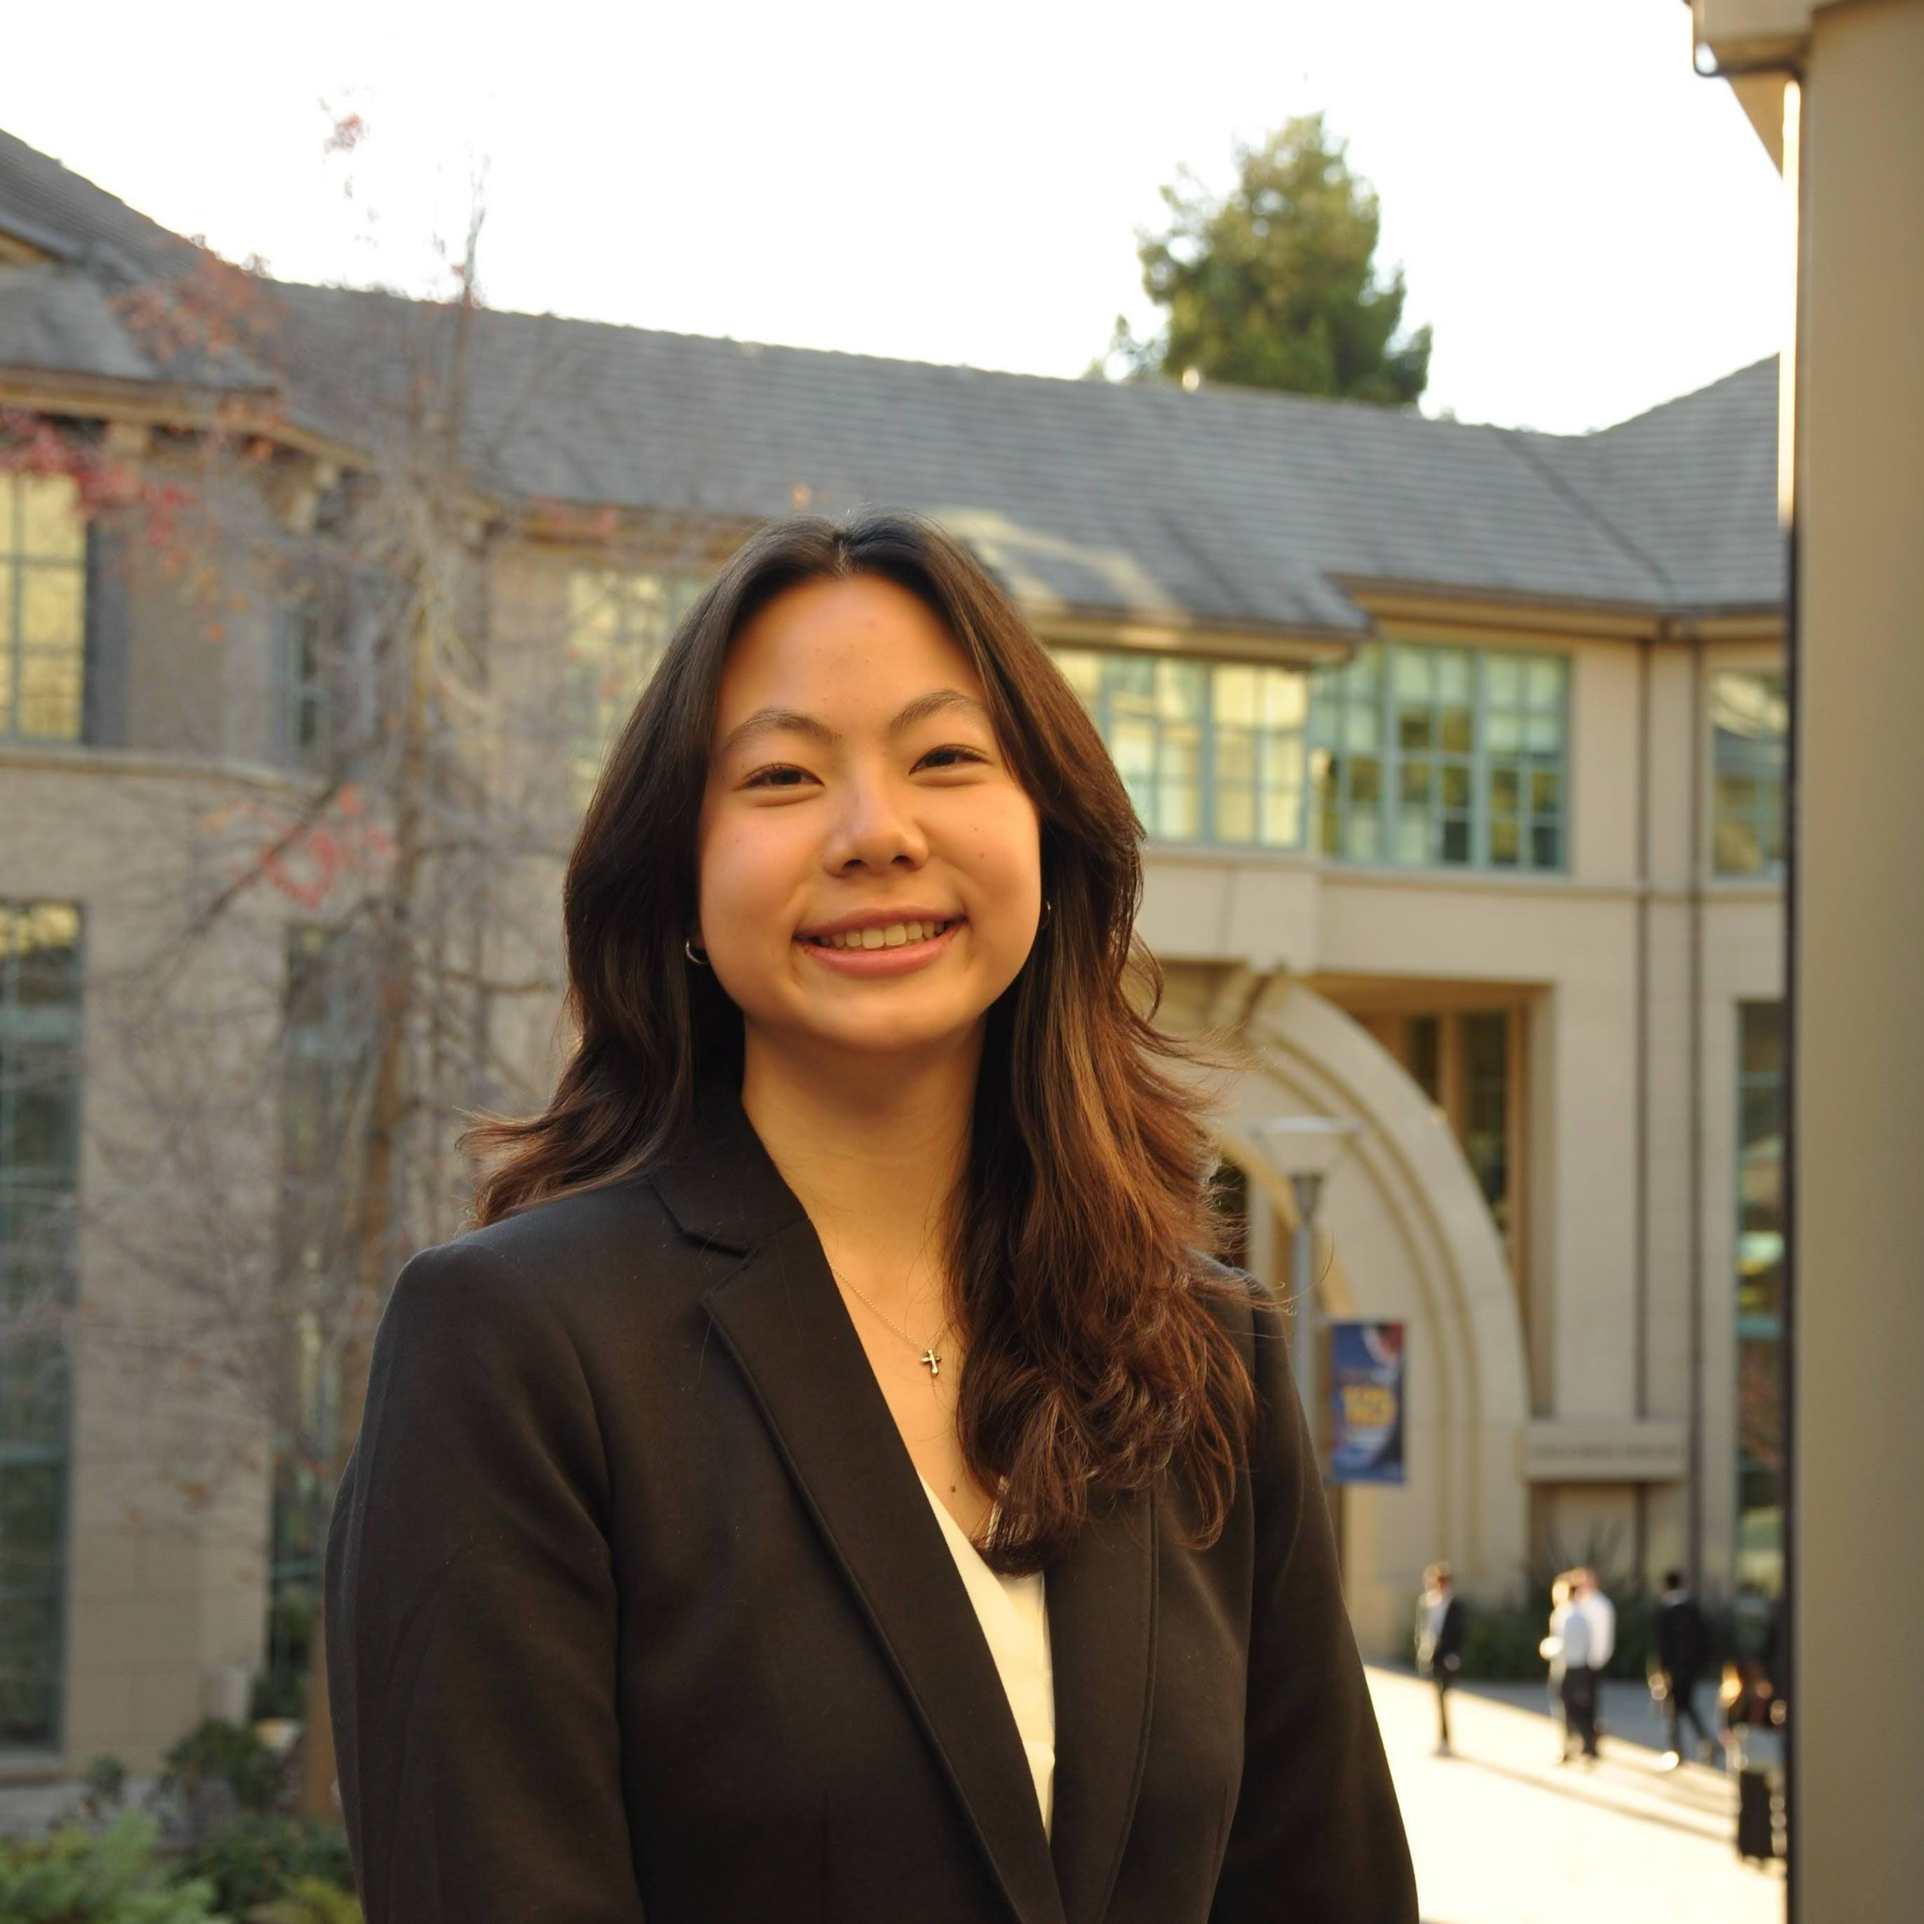
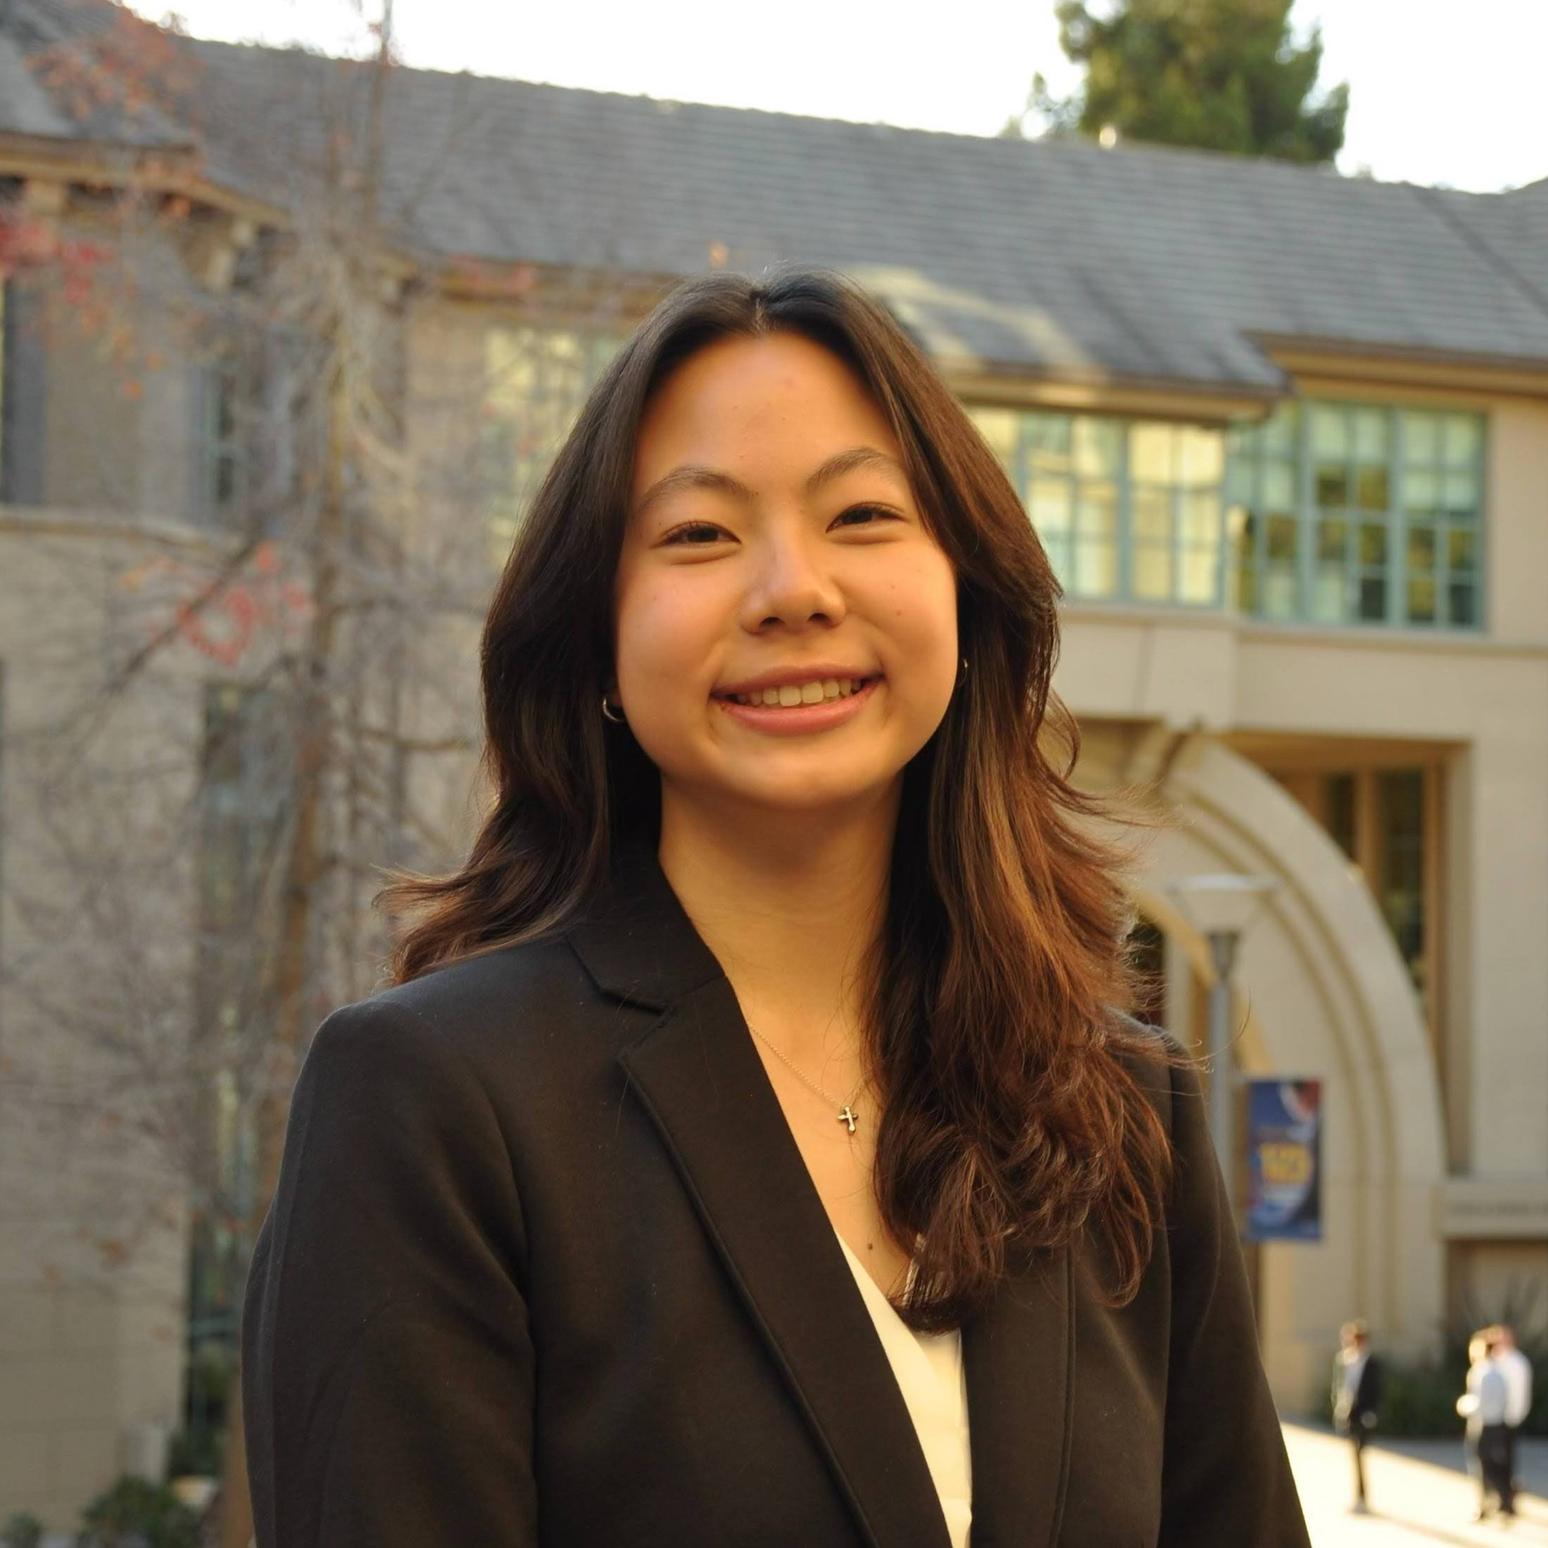
updates more photos sp25

diff --git a/src/members/data/memberInfo.js b/src/members/data/memberInfo.js
@@ -44,7 +44,7 @@ let memberInfo = {
                 "Outside of NIB, I love judo, building houses and cooking up a storm in the kitchen (cleaning up after though is something I'm still working on...) I’m super excited to meet you through recruitment this spring!"
             ],
             inkedin: 'https://www.linkedin.com/in/wenhan-xi-842440149/',
-            image: require('../img/prof/han.jpg'),
+            image: require('../img/prof/han.png'),
             sillyImage: require('../img/funny/han.png'),
             isDM: true
          },
@@ -98,7 +98,7 @@ let memberInfo = {
                 "NIB has created so many core memories that have shaped who I am. If you have any questions, or want to talk about Cal's Football Team, I'm all ears!"
             ],
             linkedin: 'https://www.linkedin.com/in/hunter-valencia-42216424b',
-            image: require('../img/prof/hunter.jpg'),
+            image: require('../img/prof/hunter.png'),
             sillyImage: require('../img/funny/hunter.png'),
             isDM: true
         },
@@ -180,7 +180,7 @@ let memberInfo = {
             ],
             linkedin: 'www.linkedin.com/in/raymond-yuan-yayayayay',
             calendly: 'https://calendly.com/rmyuan-berkeley/nib-coffee-chat',
-            image: require('../img/prof/nibplaceholder.jpeg'),
+            image: require('../img/prof/raymond.png'),
             sillyImage: require('../img/funny/raymond.png'),
             isDM: false
         },
@@ -276,7 +276,7 @@ let memberInfo = {
             ],
             linkedin: 'https://www.linkedin.com/in/tanyachandok/',
             calendly: 'https://calendly.com/tanyachandok-berkeley/nib-coffee-chats',
-            image: require('../img/prof/nibplaceholder.jpeg'),
+            image: require('../img/prof/tanya.png'),
             sillyImage: require('../img/funny/tanya.png'),
             isDM: false
         },
@@ -353,7 +353,7 @@ let memberInfo = {
             name: 'Mandy Pham', 
             title: 'Senior Advisor', 
             bio: [
-                "Hii!! I’m a sophomore studying EECS and joined NIB last semester. In NIB, I focused on educational accessibility and source sustainability in the social impact sector. NIB has greatly impacted my life, from academic support to the amazing people I've met. Being part of this community has made my freshman experience truly memorable.",
+                "Hii!! I’m a sophomore studying EECS and joined NIB two semesters ago. In NIB, I focused on educational accessibility and source sustainability in the social impact sector. NIB has greatly impacted my life, from academic support to the amazing people I've met. Being part of this community has made my berkeley experience truly memorable.",
                 "Outside of consulting, I’m involved in AFX Comp, gym, fashion, and have traveled Asia during the summer. I have a range of interests and have recently taken up cooking!",
                 "I’m also enthusiastic about making and exploring jewelry, trying new foods, browsing Facebook Marketplace, thrifting, and discovering new music. If you ever need a hand or some advice, feel free to reach out!"
             ],
@@ -547,7 +547,7 @@ let memberInfo = {
             ],
             linkedin: 'https://www.linkedin.com/in/mia-chou-2454a4187/',
             calendly: 'https://calendly.com/miachou/nib-coffee-chats',
-            image: require('../img/prof/mia.jpg'),
+            image: require('../img/prof/mia.png'),
             sillyImage: require('../img/funny/mia.png'),
             isDM: false
         },

diff --git a/src/apply/apply.js b/src/apply/apply.js
@@ -25,7 +25,7 @@ const Apply = () => {
    const virtualTablingLink = "https://berkeley.zoom.us/j/95663292195";
    const coffeeChatSignUp = "https://airtable.com/shr5tNafnTL2VsY33";
    const interestForm = "https://airtable.com/appSxxFiFv8wKG96P/shrWZTvjyCgbbMGif";
-   const application = "https://airtable.com/appZNUaqLhwW38hJf/shr2WObqWtUvlWpbp";
+   const application = "https://airtable.com/appSxxFiFv8wKG96P/pagasA5eZl1Uy0Ca9/form";
    const caseCoachingSignUp = "https://berkeley.zoom.us/meeting/register/tJEkdu-urjspGtA68NPJLepuKa-CBfMsTvm3";
    const infosession1 = "https://berkeley.zoom.us/j/99404517995?pwd=Q1ljRTlwb3RBdG9TUFpUTzY0L0UvUT09";
    const infosession2 = "https://berkeley.zoom.us/j/96961413275?pwd=TTJzVGhteFdVa2QzSjlDZk82MFlPZz09";
@@ -54,7 +54,7 @@ const Apply = () => {
                <div className="left">
                    <h3>APPLY</h3>
                    <h1>Join our Family</h1>
-                   <p>Our application for Spring 2025 will open soon! Scroll to learn more about our timeline and events</p>
+                   <p>Our application for Spring 2025 is now open! Scroll to learn more about our timeline and events</p>
                    <Button
                        link={interestForm}
                        buttonText="Interest Form"
@@ -62,7 +62,7 @@ const Apply = () => {
                    />
                    <Button
                        link={application}
-                       buttonText="Application opening soon!"
+                       buttonText="Application"
                        external
                    />
                </div>
@@ -113,7 +113,7 @@ const Apply = () => {
                        <p>Friday 1/31 - Tuesday 2/4</p>
                        <ul>
                            <li>Applications are due at 1PM on January 31st.</li>
-                           Apply <a className="underline-magical" href="https://airtable.com/appZNUaqLhwW38hJf/shr2WObqWtUvlWpbp" target="_blank" rel="noopener noreferrer"> here. </a>
+                           Apply <a className="underline-magical" href="https://airtable.com/appSxxFiFv8wKG96P/pagasA5eZl1Uy0Ca9/form" target="_blank" rel="noopener noreferrer"> here. </a>
                            <li>Check out our interview FAQ and tips <a className="underline-magical" href="/nib-app-checklist.pdf" target="_blank" rel="noopener noreferrer"> here! </a></li>
                        </ul>
                    </div>

diff --git a/src/apply/data/timeline.js b/src/apply/data/timeline.js
@@ -7,7 +7,7 @@ let Timeline = [{
     date: "January 21st - January 30th, 8am - 4pm PST | Sproul/Glade",
     title: "Tabling",
     description: "Drop by Sproul and Memorial Glade to learn more about our people, projects, and impact! Take this time to meet our incredible members and to ask any questions about consulting for Net Impact.",
-    link: "https://airtable.com/appZNUaqLhwW38hJf/shrzmMZkOfJ0uMPyR",
+    link: "https://airtable.com/appSxxFiFv8wKG96P/shrWZTvjyCgbbMGif",
     linkText: "Interest Form",
 },
 {
@@ -36,7 +36,7 @@ let Timeline = [{
     date: "Friday, January 31st, 1 PM PST",
     title: "Applications Due",
     description: "Our application consists of a resume drop and a few short answer questions. Please submit your application by 1 PM on Friday if you'd like to apply!",
-    link: "https://airtable.com/appZNUaqLhwW38hJf/shr2WObqWtUvlWpbp",
+    link: "https://airtable.com/appSxxFiFv8wKG96P/pagasA5eZl1Uy0Ca9/form",
     linkText: "Application"
 },
 {
